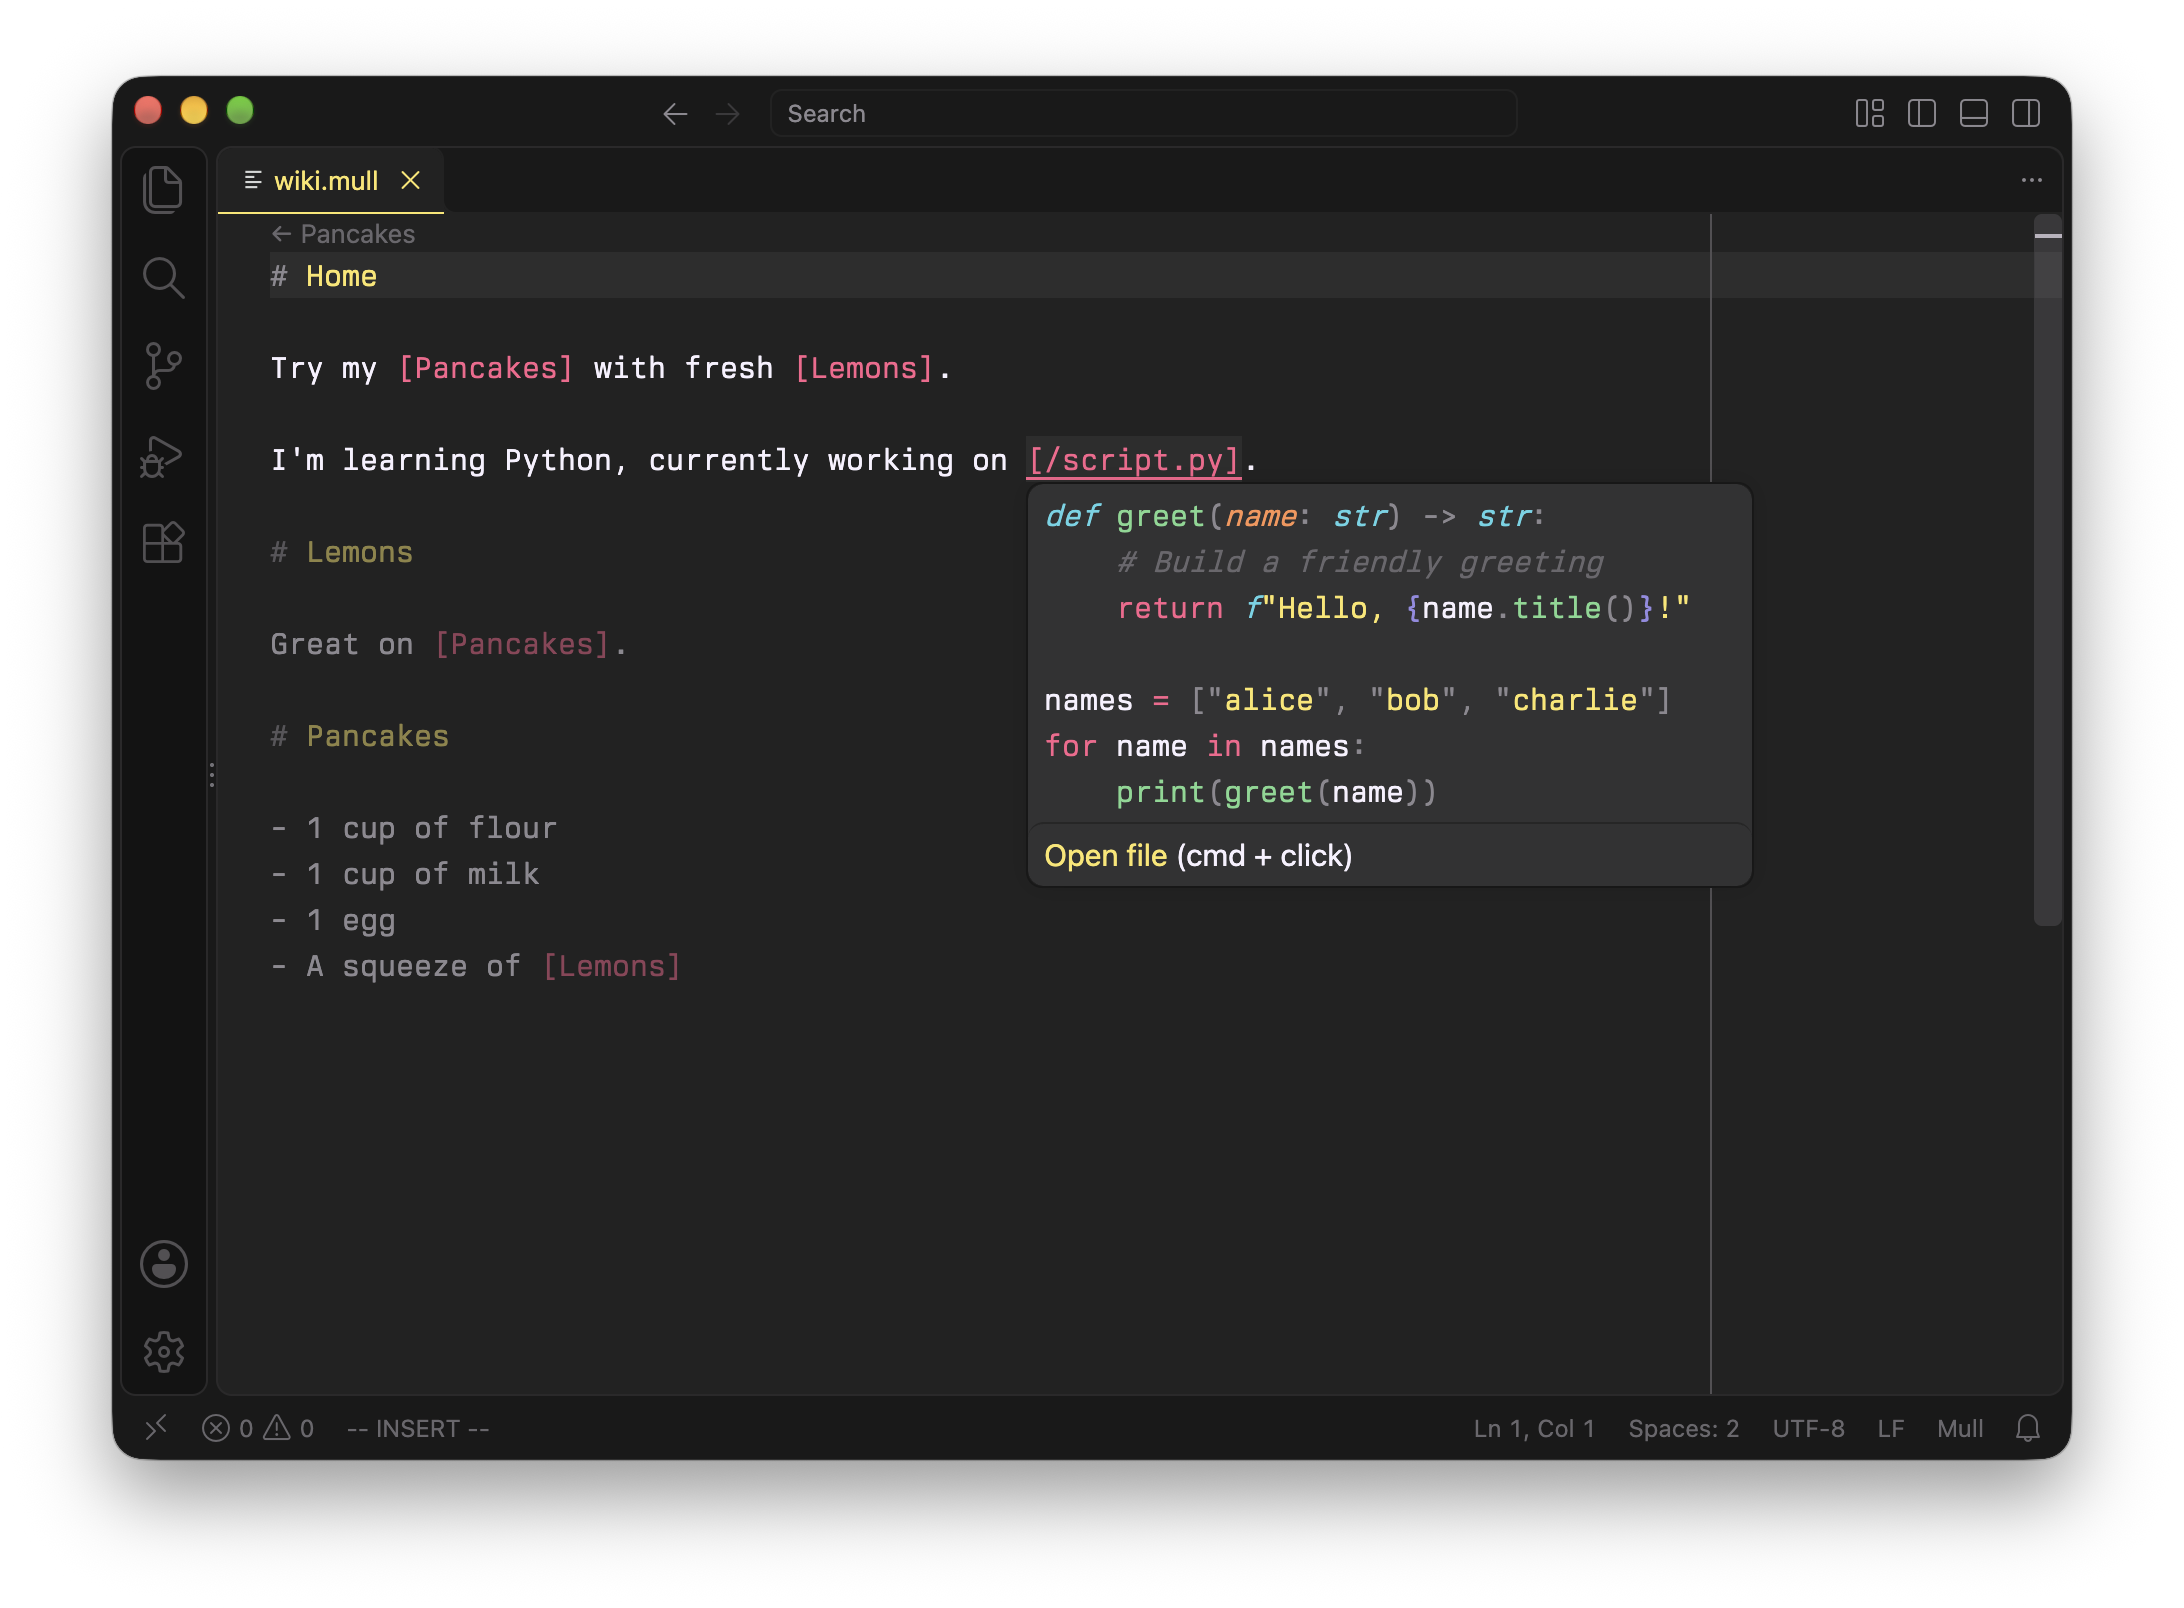
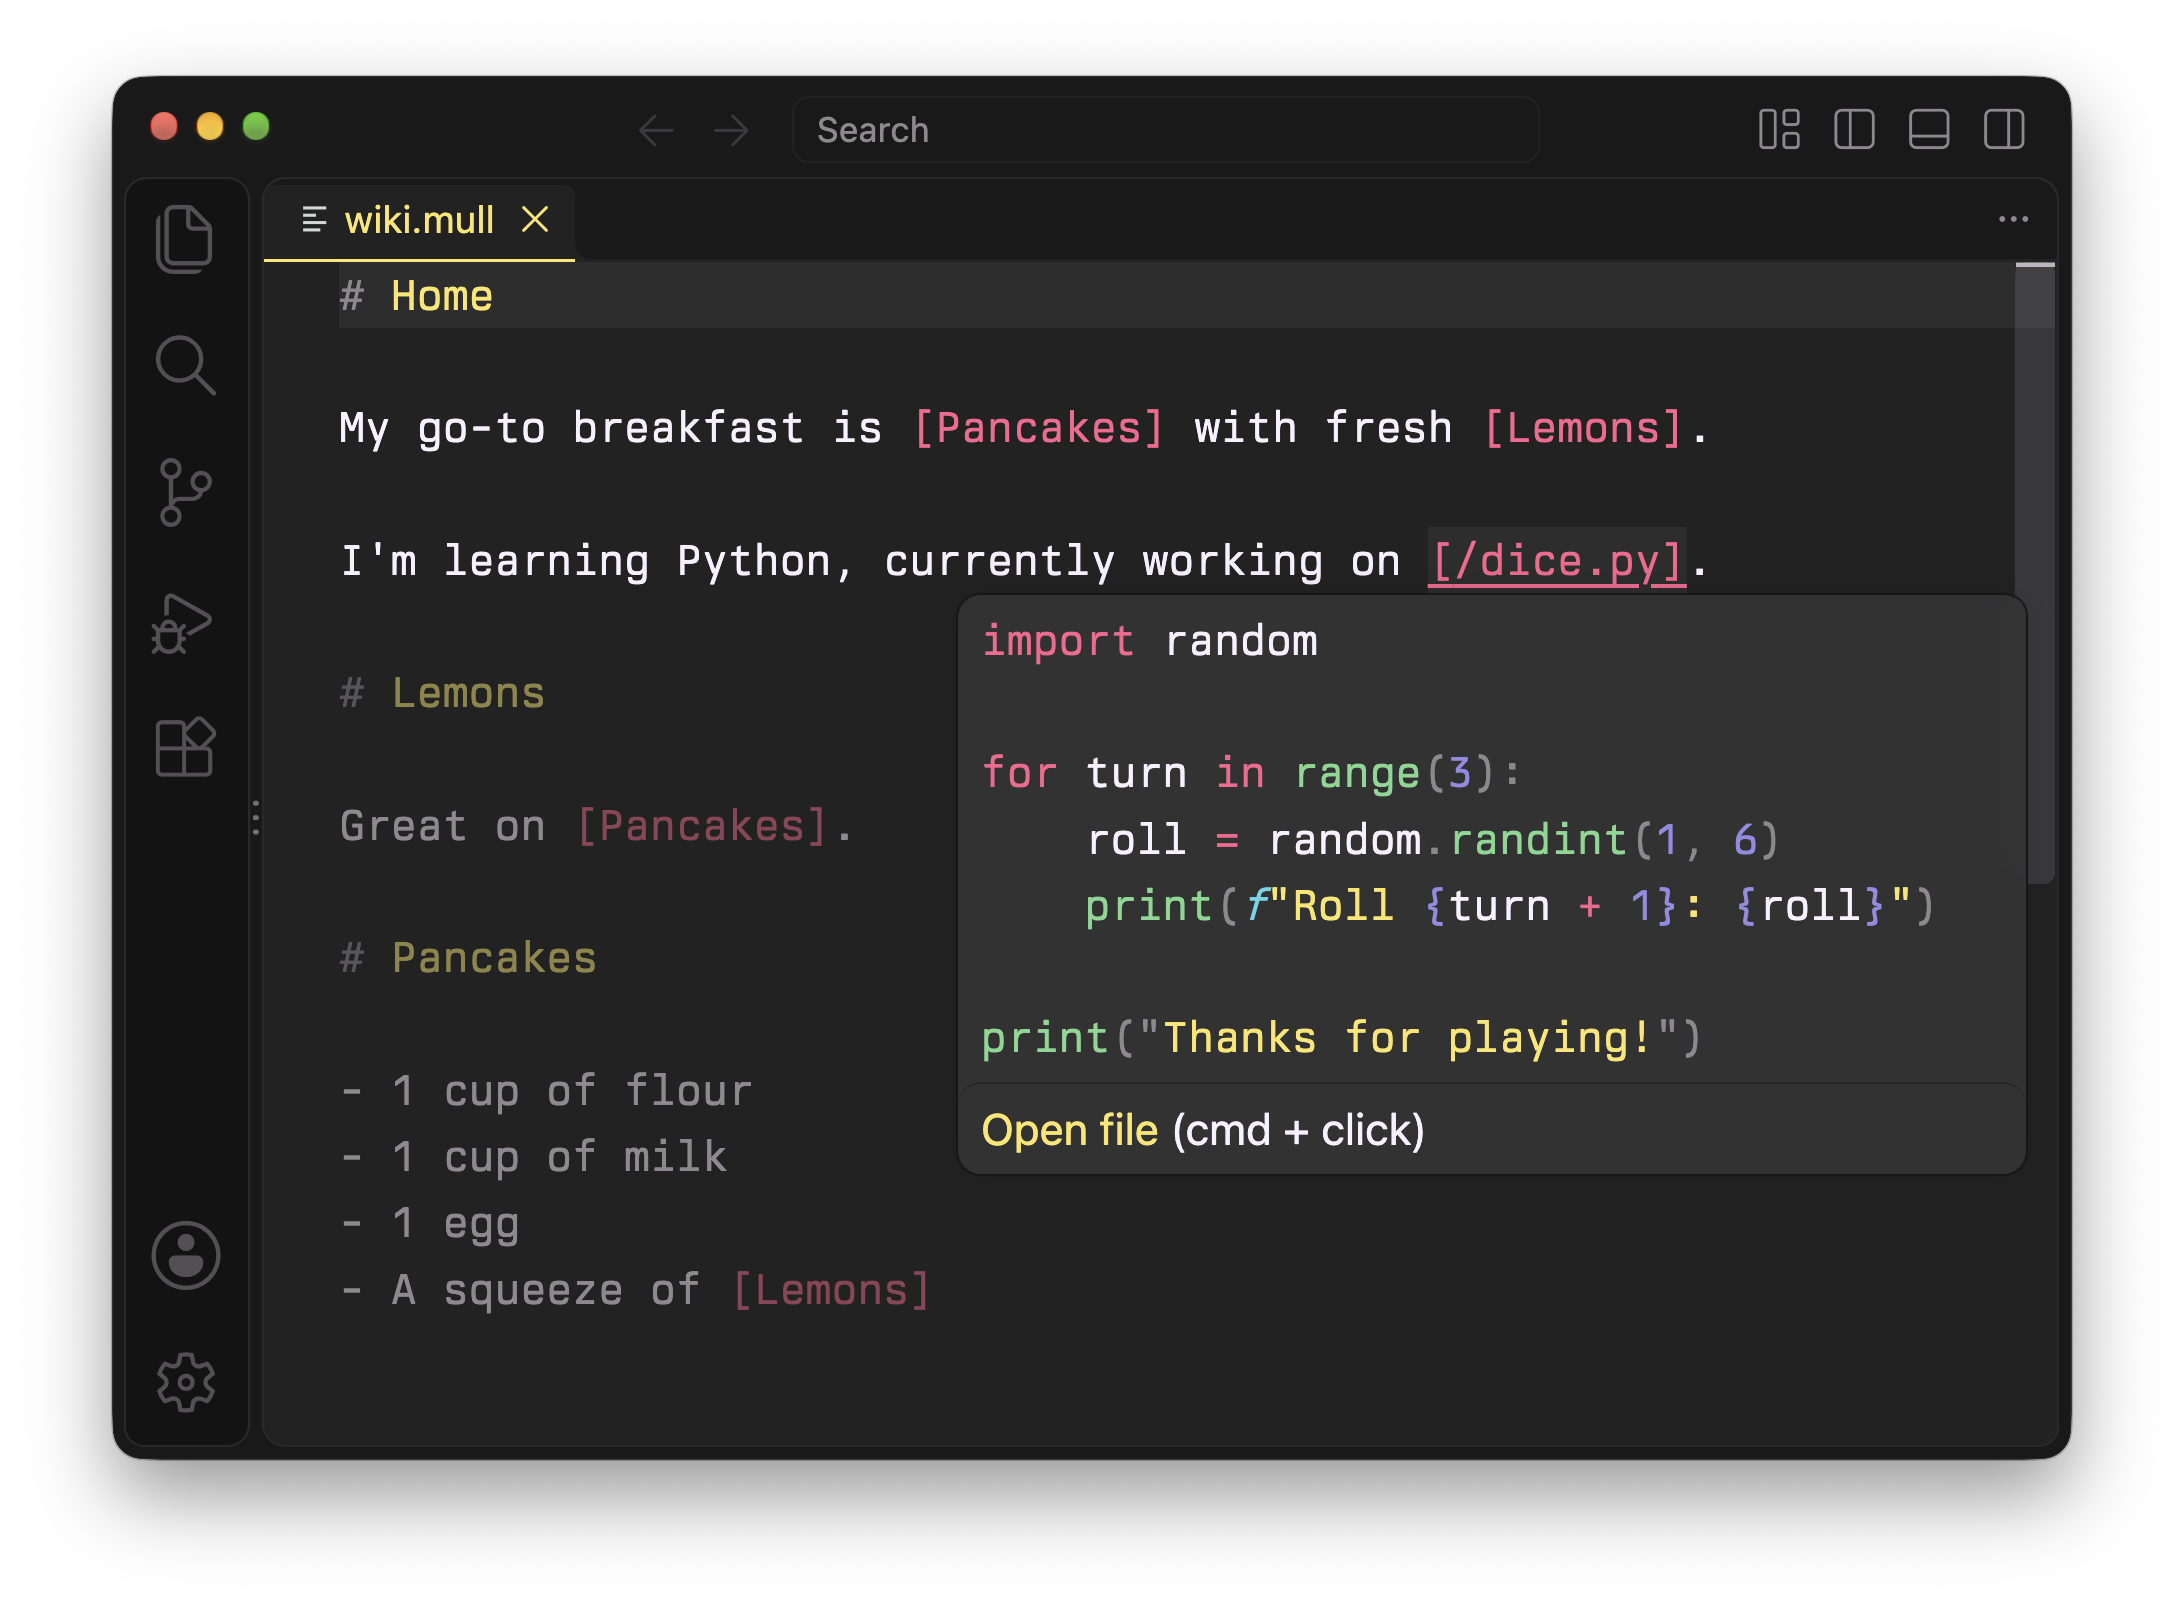
Make the README's first example read like a personal wiki (#299)
* Make the README's first example read like a personal wiki

* Update the screenshots to match the README's first example

* Use a dice game for the README's code example, matching the screenshot

* Mention sorting in reverse in the README without a separate example

* Set off "for example" with commas in the README

diff --git a/README.md b/README.md
@@ -17,7 +17,7 @@ A *wiki* is a text file with a `.mull` extension. It contains *pages* which link
 ```md
 # Home
 
-Try my [Pancakes] with fresh [Lemons].
+My go-to breakfast is [Pancakes] with fresh [Lemons].
 
 # Lemons
 
@@ -113,21 +113,7 @@ The contents of my pantry:
 :::
 ```
 
-Mull will then sort the list automatically whenever the wiki is formatted (e.g., on save).
-
-That sorting script accepts arguments, so you can sort in reverse order with `-r`:
-
-```md
-The contents of my pantry:
-
-::: sort -r
-- Rice
-- Olive oil
-- Miso
-- Kosher salt
-- Garlic
-:::
-```
+Mull will then sort the list automatically whenever the wiki is formatted (e.g., on save). That sorting script accepts arguments, so you can, for example, sort in reverse order with `::: sort -r`.
 
 Using a script in a block counts as linking to it, so it doesn't need to be linked to from the wiki like other files in `<wiki>_files`. An unused script still needs a link (e.g., `[/scripts/sort.sh]`) somewhere in the wiki.
 
@@ -138,17 +124,18 @@ To use a special symbol like `[` or `]` literally, put a backslash before it, li
 ````md
 # Home
 
-I'm learning Python, currently working on [Greeting script].
+I'm learning Python, currently working on a [Dice game].
 
-# Greeting script
+# Dice game
 
 ```python
-def greet(name: str) -> str:
-    # Build a friendly message
-    return f"Hello, {name}!"
+import random
 
-for person in ["Ada", "Grace", "Linus"]:
-    print(greet(person))
+for turn in range(3):
+    roll = random.randint(1, 6)
+    print(f"Roll {turn + 1}: {roll}")
+
+print("Thanks for playing!")
 ```
 ````
 
